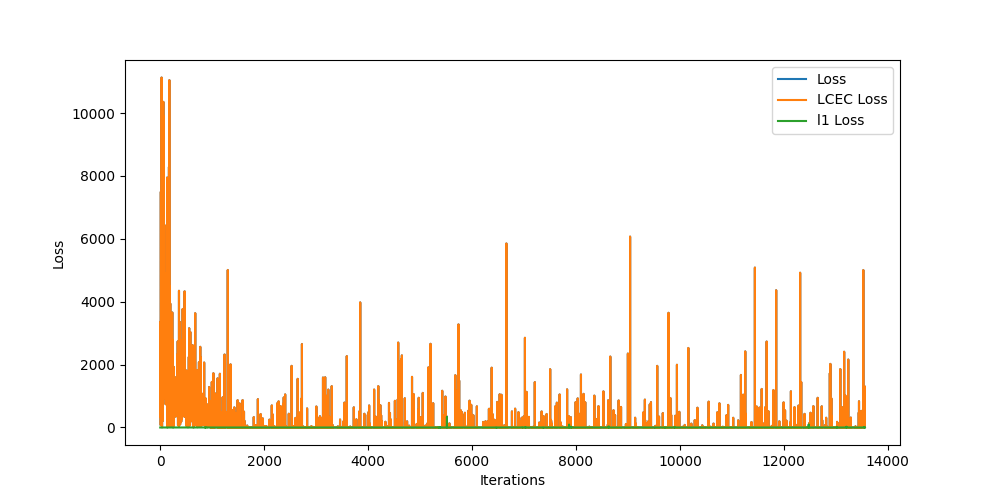
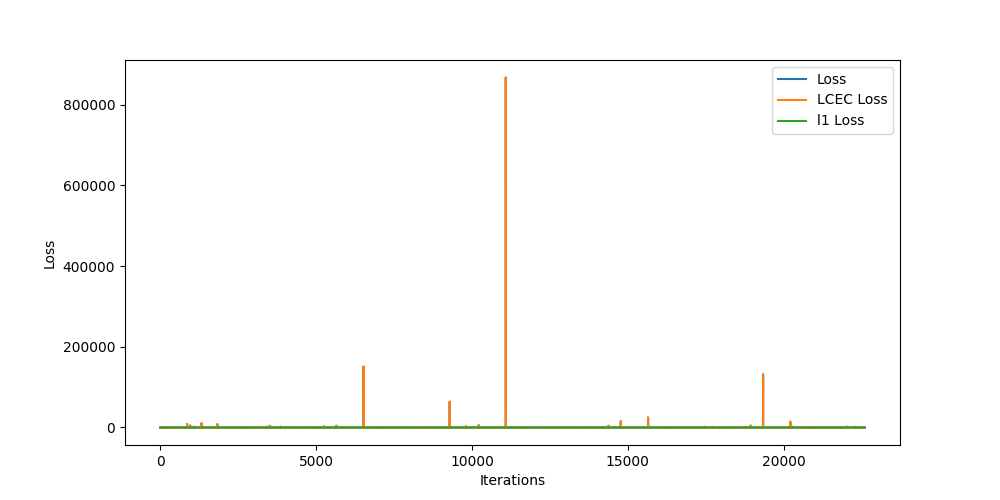
updates to model 8 and testing code

diff --git a/model_8.py b/model_8.py
@@ -18,7 +18,8 @@ from torch.optim.lr_scheduler import StepLR
 # Load and process the DataFrame
 df = pd.read_pickle('sorted.pkl')  # Ensure this is already sorted by time
 df['Temperature']  = (df['Temperature'] + 273)
-df['Relative Humidity']  = df['Relative Humidity']
+df['Relative Humidity']  = df['Relative Humidity']/100
+df['DNI'] = df['DNI']/1000
 df['Pressure']  = df['Pressure']
 # Convert 'Temperature' and 'Pressure' to PyTorch tensors
 x = torch.tensor(df[['Temperature', 'Pressure', 'Relative Humidity', 'DNI', 'Wind Speed']].values, dtype=torch.float32)
@@ -54,12 +55,12 @@ class TransformerModel(nn.Module):
 
 # Parameters
 n_features = 1 #not used
-n_hiddens = 1
+n_hiddens = 2
 n_layers = 1
-n_heads =  1
+n_heads =  2
 n_epochs = 60
 batch_size = 48
-learning_rate = 0.0003460001
+learning_rate = 0.003460001
 
 # Create the model
 model = TransformerModel(n_features, n_hiddens, n_layers, n_heads)
@@ -68,7 +69,7 @@ model = TransformerModel(n_features, n_hiddens, n_layers, n_heads)
 criterion =  nn.CosineSimilarity(dim=0)
 criterion2 = nn.SmoothL1Loss(reduction='mean', beta=3000)
 optimizer = optim.Adam(model.parameters(), lr=learning_rate)
-scheduler = optim.lr_scheduler.ReduceLROnPlateau(optimizer, mode='min', factor=0.9999996666989898989, patience=5, verbose=True)
+scheduler = optim.lr_scheduler.ReduceLROnPlateau(optimizer, mode='min', factor=0.99, patience=5, verbose=True)
 # Training loop
 if not os.path.exists('plots'):
     os.makedirs('plots')
@@ -103,16 +104,16 @@ for epoch in range(n_epochs):
         alpha,beta,gamma,xi,mu,theta = outputs_grk
 
         p_pred = p_1
-        t_pred = temp_1 #not used ,, before this was rh2-rh1 instead of theta, you could use rh1 as well to try, also maybe you can predict all the other variables this way off of each other!
+        t_pred = temp_1
         r_pred = (v_1*gamma)**-1 * (mu - alpha * t_pred **-1 - beta * i_1 - xi*theta) + rh_1 
         v_pred = (r_pred*gamma)**-1 * (mu - alpha * t_pred **-1 - beta * i_1 - xi*theta) + v_1 
         i_pred = beta ** -1 * (mu - alpha/t_pred - gamma * v_pred * r_pred - xi*theta) + i_1 
-        t_pred = (mu - beta * i_pred - gamma * v_1 * r_pred - xi *(theta))**-1 + temp_1  #- #t * alpha * (mu - beta * i_pred - gamma * v_pred * r_pred - xi *(theta))**-1
+        t_pred = (mu - beta * i_pred - gamma * v_1 * r_pred - xi *(theta))**-1 + temp_1
         p_pred =torch.exp((mu - torch.log(t_pred/temp_1))/8.314 + torch.log(p_1))
         r_pred = (v_1*gamma)**-1 * (mu - alpha * t_pred **-1 - beta * i_1 - xi*theta) + rh_1
         v_pred = (r_pred*gamma)**-1 * (mu - alpha * t_pred **-1 - beta * i_1 - xi*theta) + v_1 
         i_pred = beta ** -1 * (mu - alpha/t_pred - gamma * v_pred * r_pred - xi*theta) + i_1 
-        t_pred = (mu - beta * i_pred - gamma * v_1 * r_pred - xi *(theta))**-1 + temp_1  #- #t * alpha * (mu - beta * i_pred - gamma * v_pred * r_pred - xi *(theta))**-1
+        t_pred = (mu - beta * i_pred - gamma * v_1 * r_pred - xi *(theta))**-1 + temp_1
         p_pred =torch.exp((mu - torch.log(t_pred/temp_1))/8.314 + torch.log(p_1)) 
         x_prime = torch.cat((t_pred.unsqueeze(0),p_pred.unsqueeze(0),r_pred.unsqueeze(0),i_pred.unsqueeze(0),v_pred.unsqueeze(0)))
     
@@ -122,7 +123,7 @@ for epoch in range(n_epochs):
         # l_entropy_forcheck = torch.abs(torch.log(temp_2/temp_1)  + 8.314 * torch.log(p_2/p_1) - (torch.log(temp_2/temp_1)  + 8.314 * torch.log(p_2/p_1)))
         d_entropy_lce = (alpha/temp_2 + beta * i_2 + gamma * v_2  + xi *theta ) - (alpha/temp_1 + beta * i_1 + gamma * v_1 * rh_1 + xi * (rh_2-rh_1)) 
         #loss for the learned constants to be accurate (learned constant entropy constants loss)
-        loss_lcec = (torch.abs(t_pred-temp_2)**2+torch.abs(p_pred-p_2)**2+(torch.abs(d_entropy_lce-d_entropy_pt))+torch.abs(d_entropy_lce-mu))+(torch.abs(mu-d_entropy_pt))+(torch.abs(theta - (rh_2 - rh_1)))#before there was no constant theta
+        loss_lcec = torch.abs(v_pred-v_2)+torch.abs(r_pred-rh_2)+(torch.abs(i_pred-i_2)+torch.abs(t_pred-temp_2)+torch.abs(p_pred-p_2)+(torch.abs(d_entropy_lce-d_entropy_pt))+torch.abs(d_entropy_lce-mu))+(torch.abs(mu-d_entropy_pt))+(torch.abs(theta - (rh_2 - rh_1)))#before there was no constant theta
         loss_lcec = torch.lgamma(loss_lcec)
         #now we can compute the temperature and add that to the final loss
         # Backward pass and optimization

diff --git a/test_model_8.py b/test_model_8.py
@@ -1,0 +1,86 @@
+import torch
+import torch.nn as nn
+import pandas as pd
+import torch.optim as optim
+import matplotlib.pyplot as plt
+from IPython.display import display, clear_output
+from IPython.display import Image
+import os
+import numpy as np
+import io
+from PIL import Image
+from torch.optim.lr_scheduler import StepLR
+
+# Define the TransformerModel class (same as in the provided code)
+class TransformerModel(nn.Module):
+    def __init__(self, n_features, n_hiddens, n_layers, n_heads, dropout=0.1):
+        super(TransformerModel, self).__init__()
+        self.embedding_greek = nn.Linear(5, n_hiddens)
+        encoder_layers_greek = nn.TransformerEncoderLayer(n_hiddens, n_heads, n_hiddens, dropout)
+        self.transformer_encoder_greek = nn.TransformerEncoder(encoder_layers_greek, n_layers)
+        self.decoder_greek = nn.Linear(n_hiddens, 6)
+
+    def forward(self, src):
+        src = torch.abs(torch.fft.fft(src,dim=0))
+        grk = src
+        src_grk = self.embedding_greek(grk)
+        output_grk = self.transformer_encoder_greek(src_grk)
+        output_grk = self.decoder_greek(output_grk[-1])
+        return output_grk
+
+# Load and process the DataFrame (same as in the provided code)
+df = pd.read_pickle('sorted.pkl')  # Ensure this is already sorted by time
+df['Temperature']  = (df['Temperature'] + 273)
+df['Relative Humidity']  = df['Relative Humidity']
+df['Pressure']  = df['Pressure']
+x = torch.tensor(df[['Temperature', 'Pressure', 'Relative Humidity', 'DNI', 'Wind Speed']].values, dtype=torch.float32)
+
+# Parameters (same as in the provided code)
+n_features = 1
+n_hiddens = 1
+n_layers = 1
+n_heads =  1
+n_epochs = 60
+batch_size = 48
+learning_rate = 0.0003460001
+
+# Create the model
+model = TransformerModel(n_features, n_hiddens, n_layers, n_heads)
+
+# Load the saved model state
+model.load_state_dict(torch.load('latest_epoch_1.pth'))
+
+# Set the model to evaluation mode
+model.eval()
+
+# Debug mode testing
+with torch.no_grad():
+    for i in range(0, len(x), batch_size):
+        batch = x[i:i+batch_size]
+        outputs_grk = model(batch[:-1])
+        actual = batch[-1,]
+
+        temp_1,temp_2,p_1,p_2,rh_2,rh_1,i_2,i_1,v_1,v_2 = batch[-2,0],batch[-1,0],batch[-2,1],batch[-1,1],batch[-2,2],batch[-1,2],batch[-2,3],batch[-1,3],batch[-2,4],batch[-1,4]
+
+        alpha,beta,gamma,xi,mu,theta = outputs_grk
+
+        # Perform the same calculations as in the training loop
+        p_pred = p_1
+        t_pred = temp_1
+        r_pred = (v_1*gamma)**-1 * (mu - alpha * t_pred **-1 - beta * i_1 - xi*theta) + rh_1 
+        v_pred = (r_pred*gamma)**-1 * (mu - alpha * t_pred **-1 - beta * i_1 - xi*theta) + v_1 
+        i_pred = beta ** -1 * (mu - alpha/t_pred - gamma * v_pred * r_pred - xi*theta) + i_1 
+        t_pred = (mu - beta * i_pred - gamma * v_1 * r_pred - xi *(theta))**-1 + temp_1
+        p_pred =torch.exp((mu - torch.log(t_pred/temp_1))/8.314 + torch.log(p_1))
+        r_pred = (v_1*gamma)**-1 * (mu - alpha * t_pred **-1 - beta * i_1 - xi*theta) + rh_1
+        v_pred = (r_pred*gamma)**-1 * (mu - alpha * t_pred **-1 - beta * i_1 - xi*theta) + v_1 
+        i_pred = beta ** -1 * (mu - alpha/t_pred - gamma * v_pred * r_pred - xi*theta) + i_1 
+        t_pred = (mu - beta * i_pred - gamma * v_1 * r_pred - xi *(theta))**-1 + temp_1
+        p_pred =torch.exp((mu - torch.log(t_pred/temp_1))/8.314 + torch.log(p_1)) 
+        x_prime = torch.cat((t_pred.unsqueeze(0),p_pred.unsqueeze(0),r_pred.unsqueeze(0),i_pred.unsqueeze(0),v_pred.unsqueeze(0)))
+
+        print("Predicted values:", x_prime)
+        print("Actual values:", batch[-1, :])
+        print("---")
+
+# You can now modify and experiment with the code as needed in this debug environment
